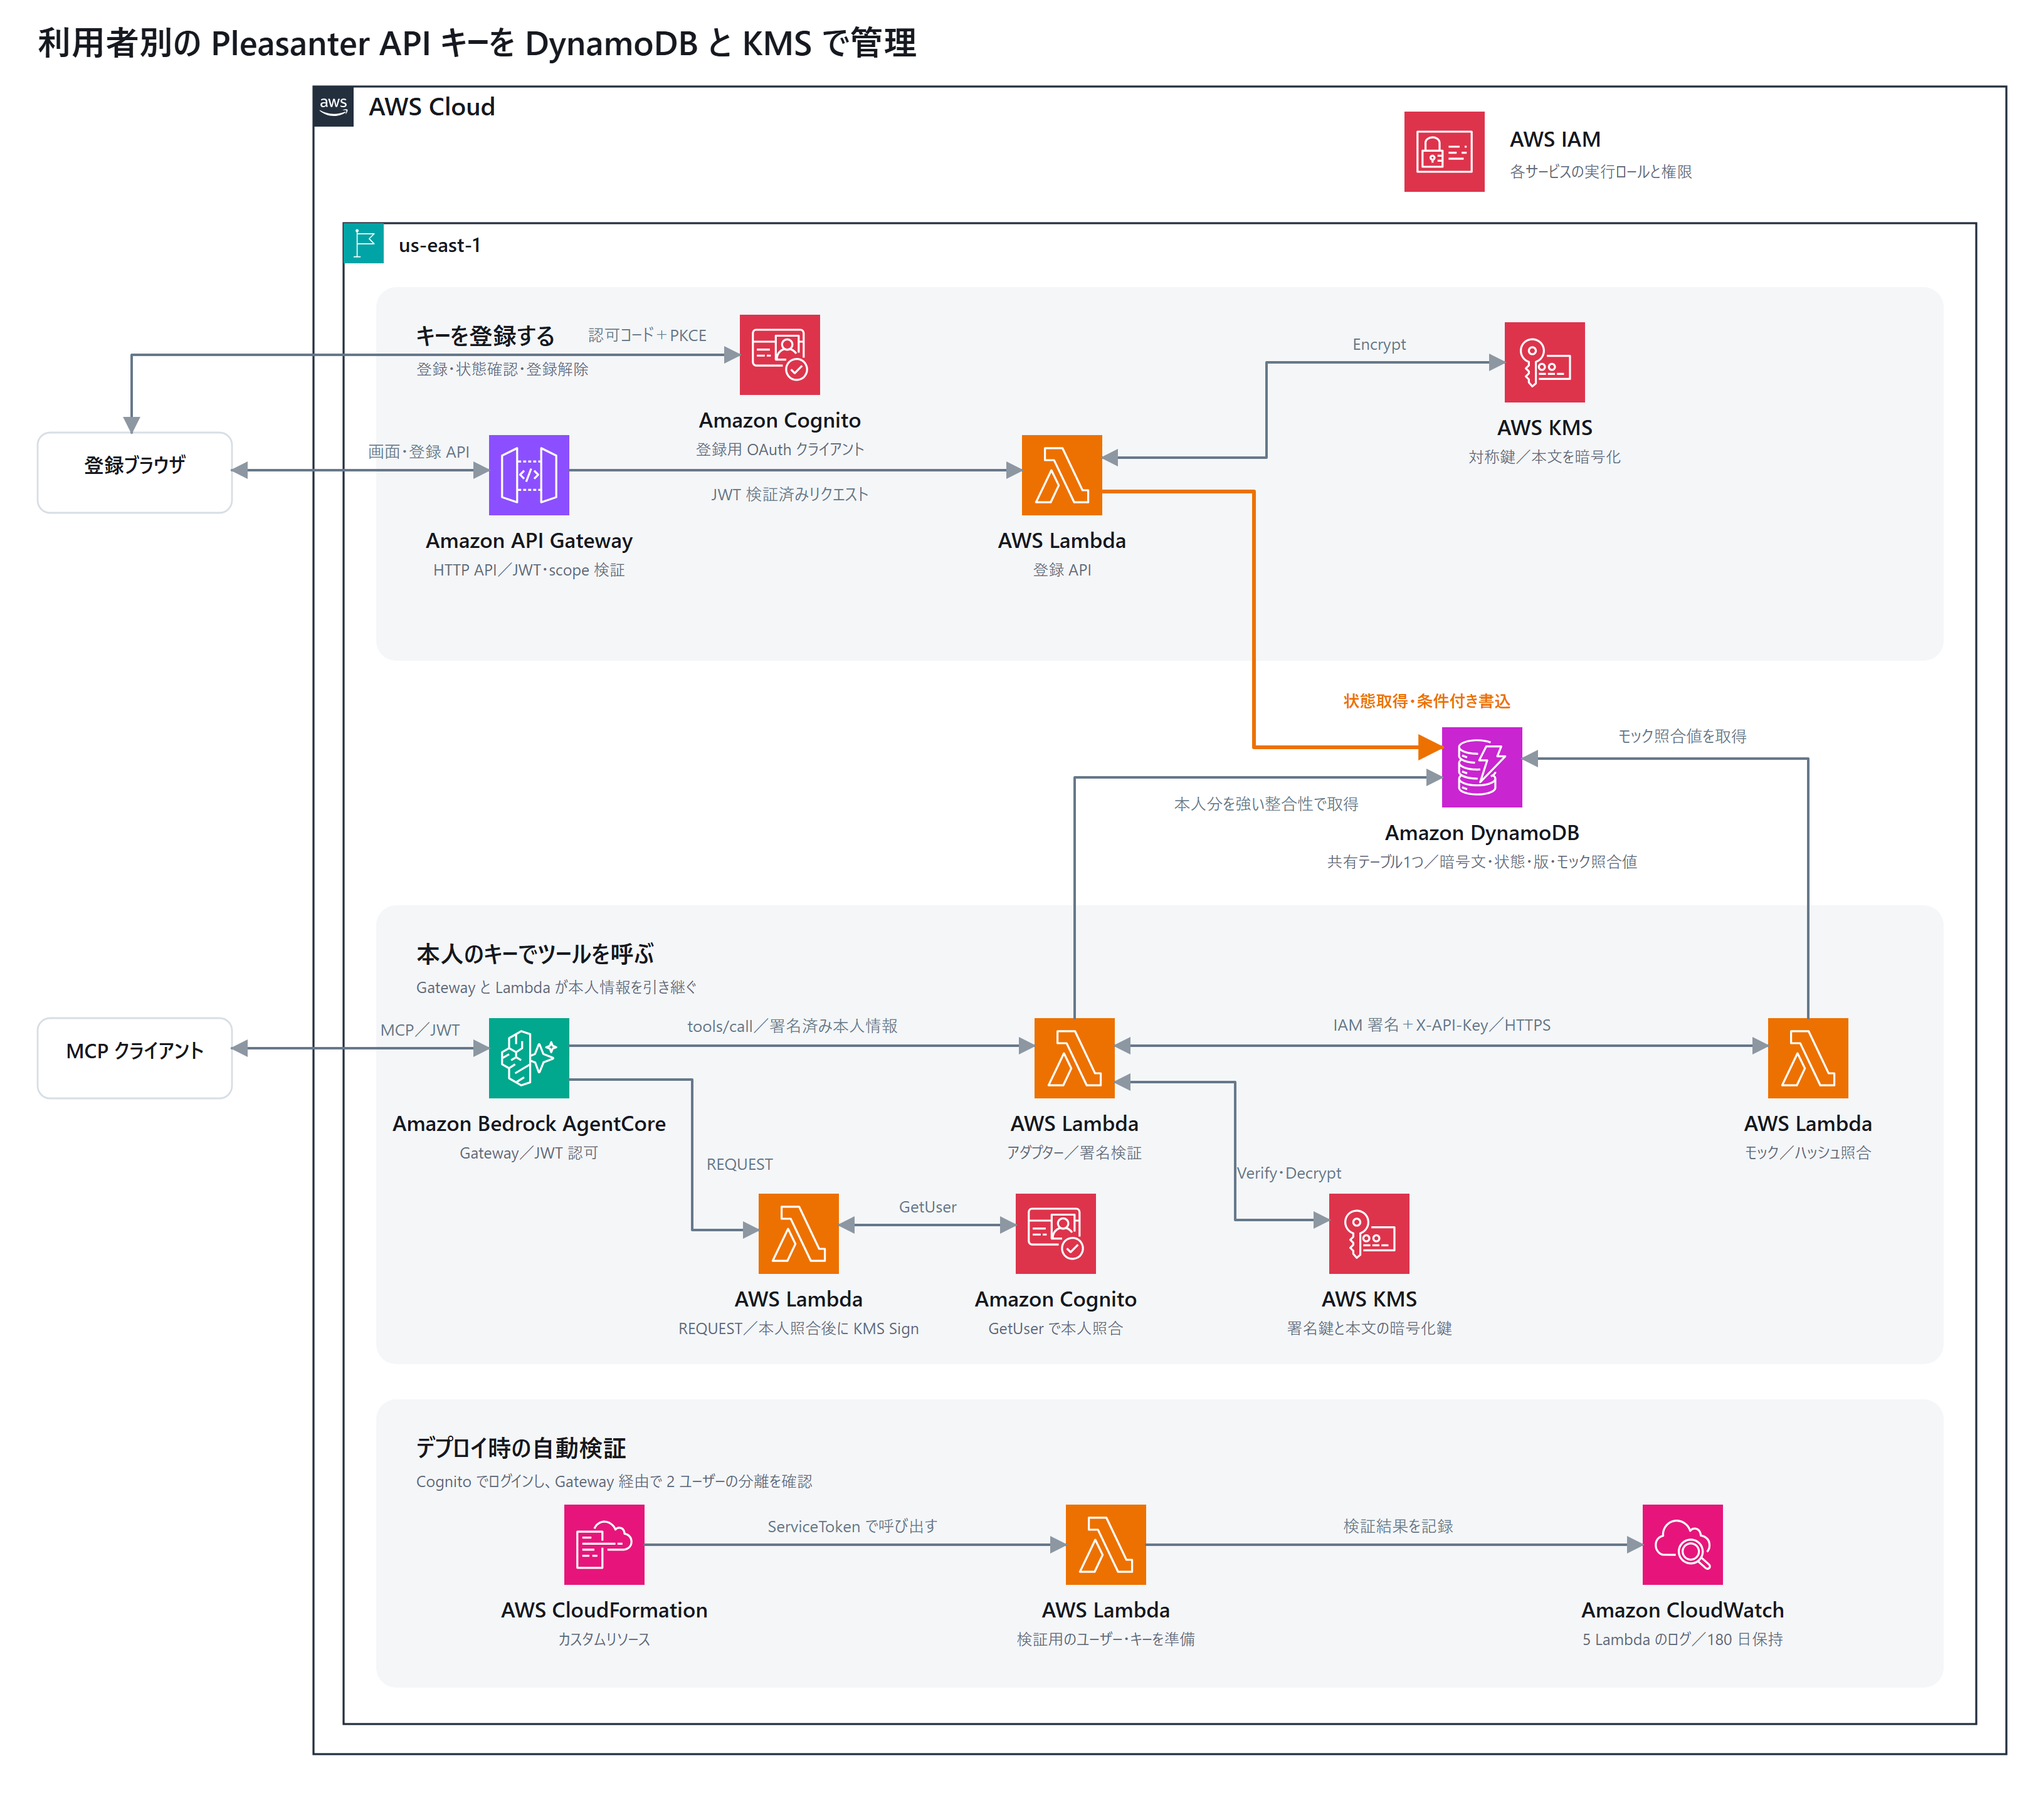
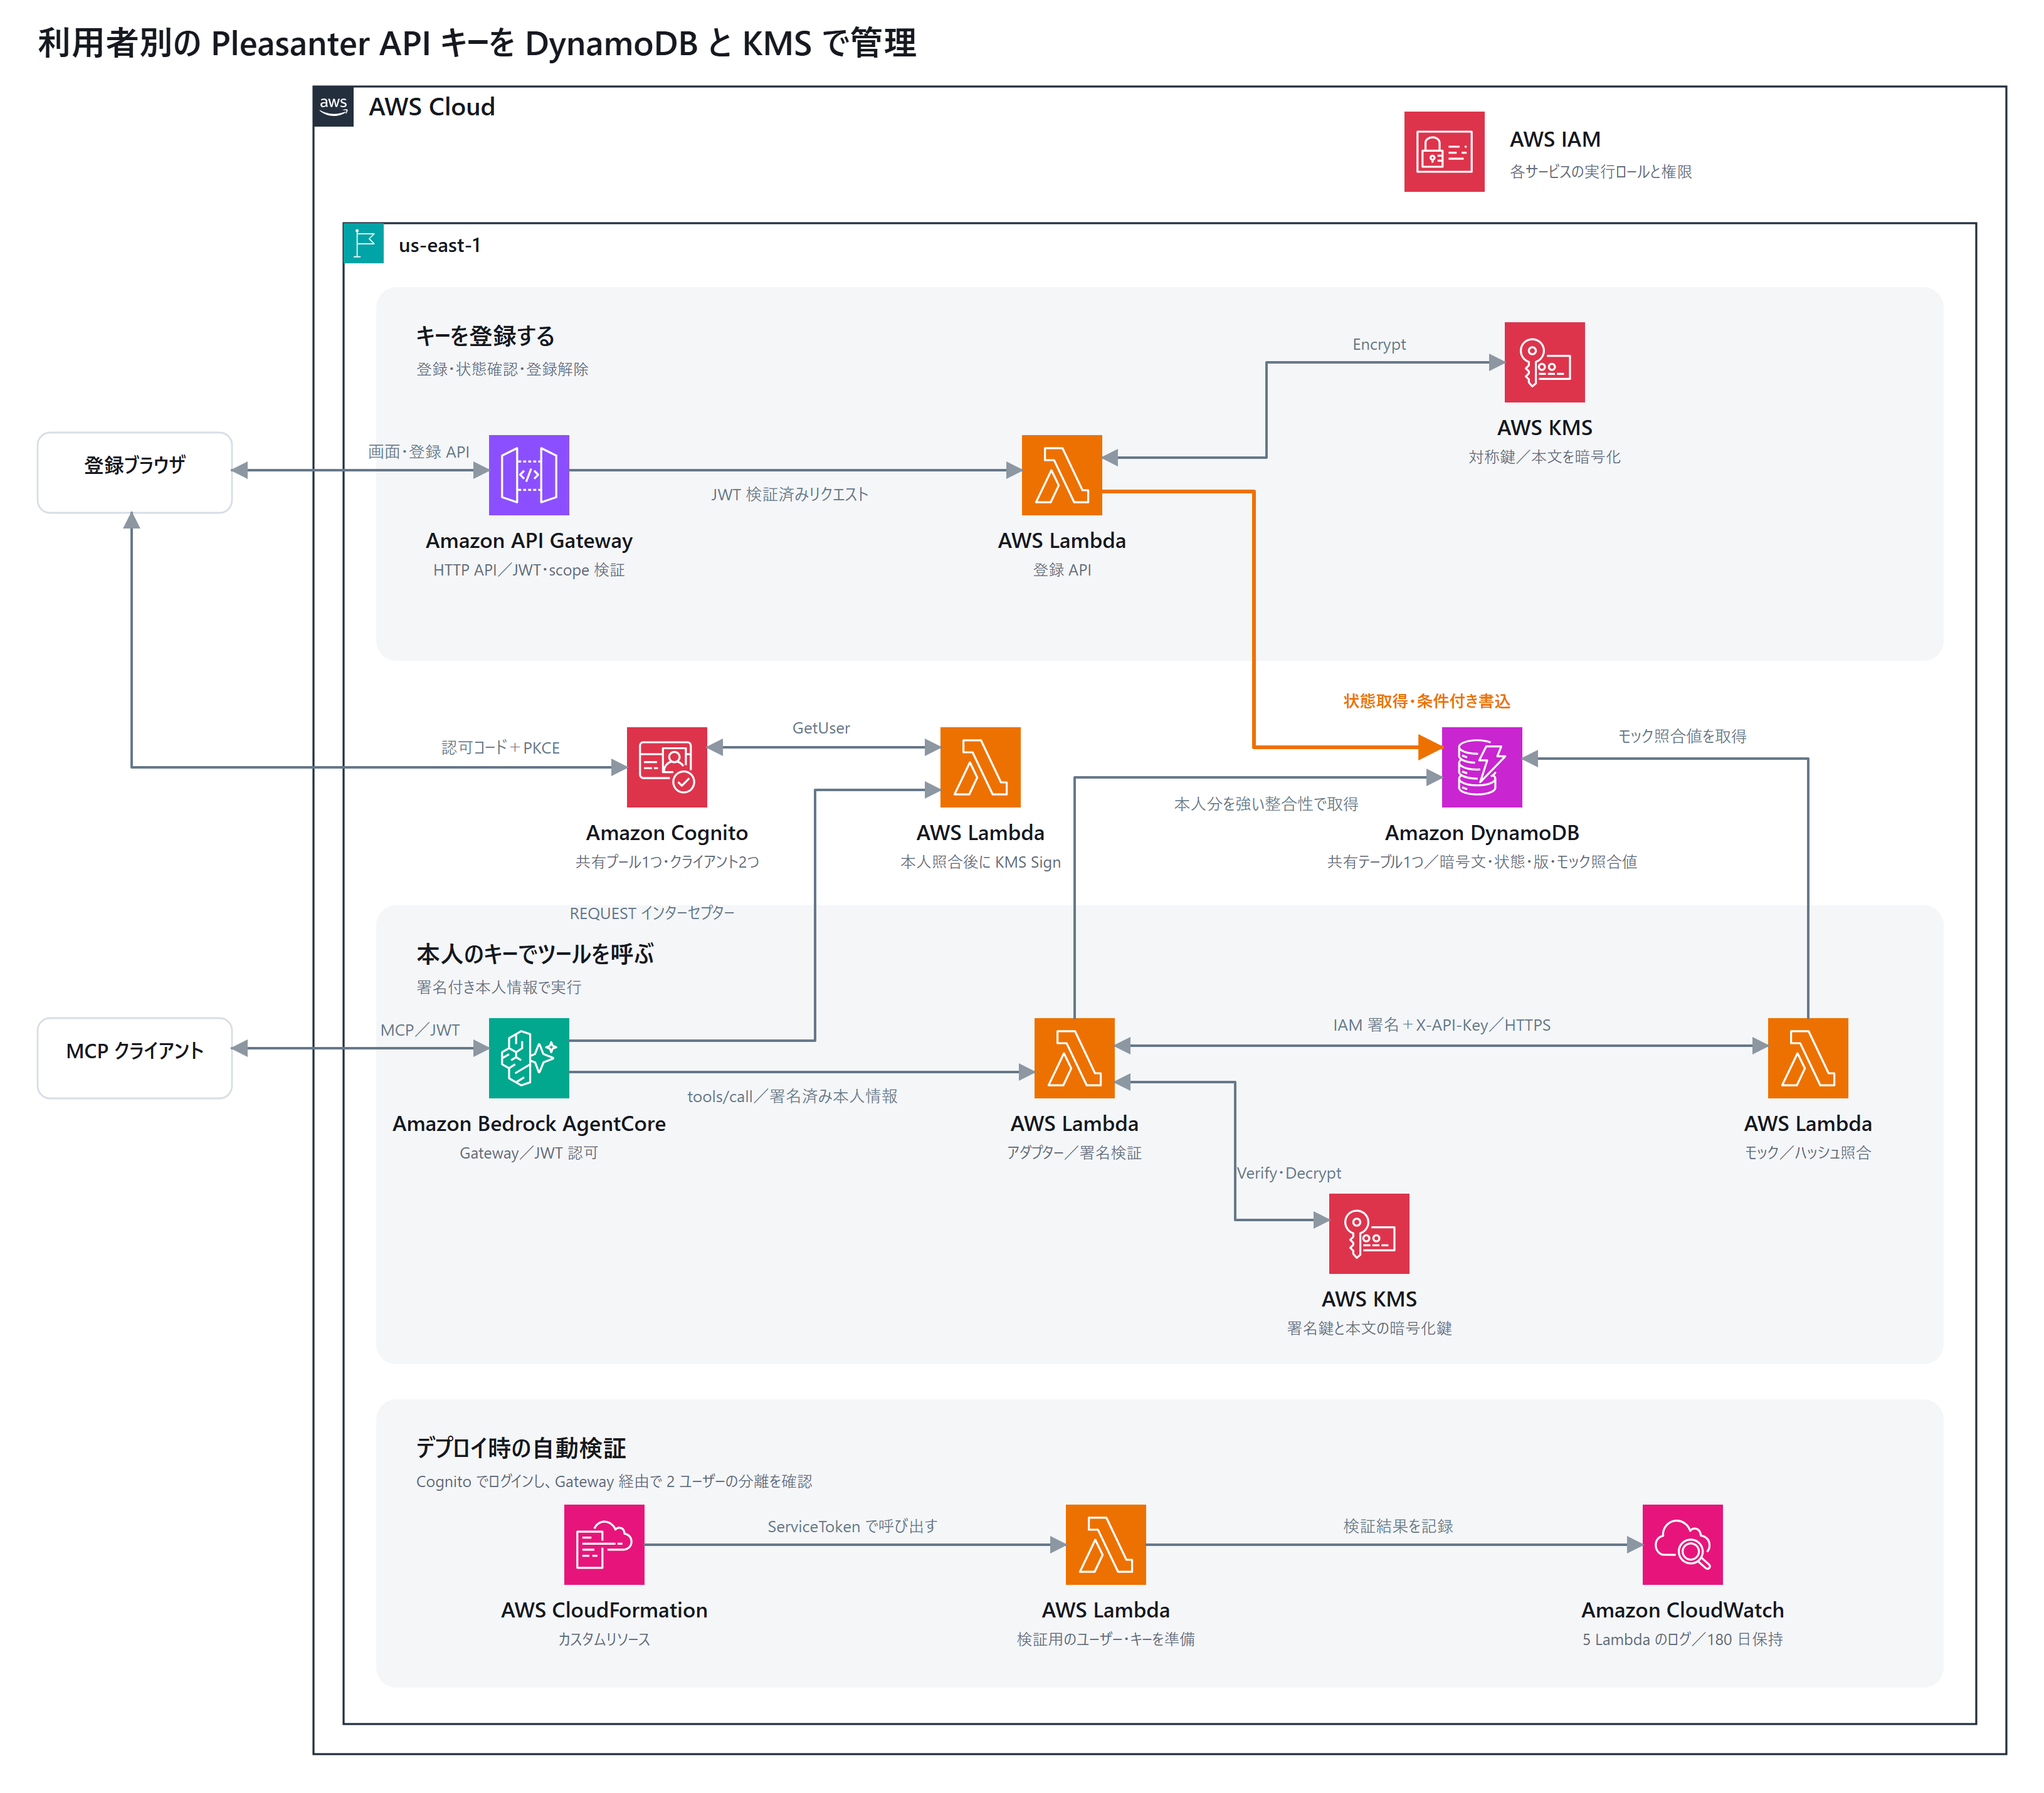
Show one shared Cognito user pool in architecture

diff --git a/docs/images/build_architecture.py b/docs/images/build_architecture.py
@@ -32,7 +32,7 @@ def build(root):
     d.service("iam", 1120, 89, "AWS IAM", "各サービスの実行ロールと権限")
     d.scope(274, 178, 1302, 1197, "region", "us-east-1", size=16)
     d.group_box(300, 229, 1250, 298, "キーを登録する", "登録・状態確認・登録解除")
-    d.group_box(300, 722, 1250, 366, "本人のキーでツールを呼ぶ", "Gateway と Lambda が本人情報を引き継ぐ")
+    d.group_box(300, 722, 1250, 366, "本人のキーでツールを呼ぶ", "署名付き本人情報で実行")
     d.group_box(300, 1116, 1250, 230, "デプロイ時の自動検証", "Cognito でログインし、Gateway 経由で 2 ユーザーの分離を確認")
 
     def node(icon, x, y, label, desc):
@@ -44,12 +44,12 @@ def build(root):
         d.text(label, x, y, 13, color, "700" if accent else "400", anchor="middle")
 
     d.card(30, 345, 155, 64, "登録ブラウザ")
-    node("cognito", 590, 251, "Amazon Cognito", "登録用 OAuth クライアント")
+    node("cognito", 500, 580, "Amazon Cognito", "共有プール1つ・クライアント2つ")
     node("api", 390, 347, "Amazon API Gateway", "HTTP API／JWT・scope 検証")
     node("lambda", 815, 347, "AWS Lambda", "登録 API")
     node("kms", 1200, 257, "AWS KMS", "対称鍵／本文を暗号化")
     node("ddb", 1150, 580, "Amazon DynamoDB", "共有テーブル1つ／暗号文・状態・版・モック照合値")
-    edge([(105, 345), (105, 283), (590, 283)], "認可コード＋PKCE", 516, 272, both=True)
+    edge([(105, 409), (105, 612), (500, 612)], "認可コード＋PKCE", 399, 601, both=True)
     edge([(185, 375), (390, 375)], "画面・登録 API", 334, 365, both=True)
     edge([(454, 375), (815, 375)], "JWT 検証済みリクエスト", 630, 399)
     edge([(879, 365), (1010, 365), (1010, 289), (1200, 289)], "Encrypt", 1100, 279, both=True)
@@ -59,13 +59,12 @@ def build(root):
     node("gateway", 390, 812, "Amazon Bedrock AgentCore", "Gateway／JWT 認可")
     node("lambda", 825, 812, "AWS Lambda", "アダプター／署名検証")
     node("lambda", 1410, 812, "AWS Lambda", "モック／ハッシュ照合")
-    node("lambda", 605, 952, "AWS Lambda", "REQUEST／本人照合後に KMS Sign")
-    node("cognito", 810, 952, "Amazon Cognito", "GetUser で本人照合")
+    node("lambda", 750, 580, "AWS Lambda", "本人照合後に KMS Sign")
     node("kms", 1060, 952, "AWS KMS", "署名鍵と本文の暗号化鍵")
     edge([(185, 836), (390, 836)], "MCP／JWT", 335, 826, both=True)
-    edge([(454, 834), (825, 834)], "tools/call／署名済み本人情報", 632, 823)
-    edge([(454, 861), (552, 861), (552, 981), (605, 981)], "REQUEST", 590, 933)
-    edge([(669, 977), (810, 977)], "GetUser", 740, 967, both=True)
+    edge([(454, 855), (825, 855)], "tools/call／署名済み本人情報", 632, 879)
+    edge([(454, 830), (650, 830), (650, 630), (750, 630)], "REQUEST インターセプター", 520, 733)
+    edge([(750, 596), (564, 596)], "GetUser", 655, 585, both=True)
     edge([(889, 834), (1410, 834)], "IAM 署名＋X-API-Key／HTTPS", 1150, 822, both=True)
     edge([(889, 863), (985, 863), (985, 973), (1060, 973)], "Verify・Decrypt", 1028, 940, both=True)
     edge([(857, 812), (857, 620), (1150, 620)], "本人分を強い整合性で取得", 1010, 646)

diff --git a/docs/architecture.md b/docs/architecture.md
@@ -17,7 +17,7 @@
 | Gateway／インターセプター → アダプター | `tools/call` は Gateway から、`tools/list` はインターセプターからアダプターを呼ぶ。アダプターは署名、発行元、期限、メソッドを検証する。一覧は固定で、キー取得・復号は呼び出し時に行う。 |
 | アダプター → DynamoDB・KMS → モック | 強い整合性で本人の項目を読み、対称鍵で復号する。IAM 認証付き Function URL に `X-API-Key` を送る。モックは別の項目に保存したダミーキーのハッシュと照合する。 |
 
-図の DynamoDB は共有テーブル1つで、登録・利用・モック照合が同じテーブルに接続する。同じ Cognito プールと対称 KMS 鍵は経路ごとに再掲した。署名用 KMS 鍵は別鍵。CloudFormation のカスタムリソースと検証 Lambda はデプロイ時に動作する。
+図の DynamoDB は共有テーブル1つで、登録・利用・モック照合が同じテーブルに接続する。Cognito も共有プール1つにまとめ、登録用と MCP 用のクライアント2つを持つ。対称 KMS 鍵は経路ごとに再掲した。署名用 KMS 鍵は別鍵。CloudFormation のカスタムリソースと検証 Lambda はデプロイ時に動作する。
 
 ## 保存形式と競合制御
 
